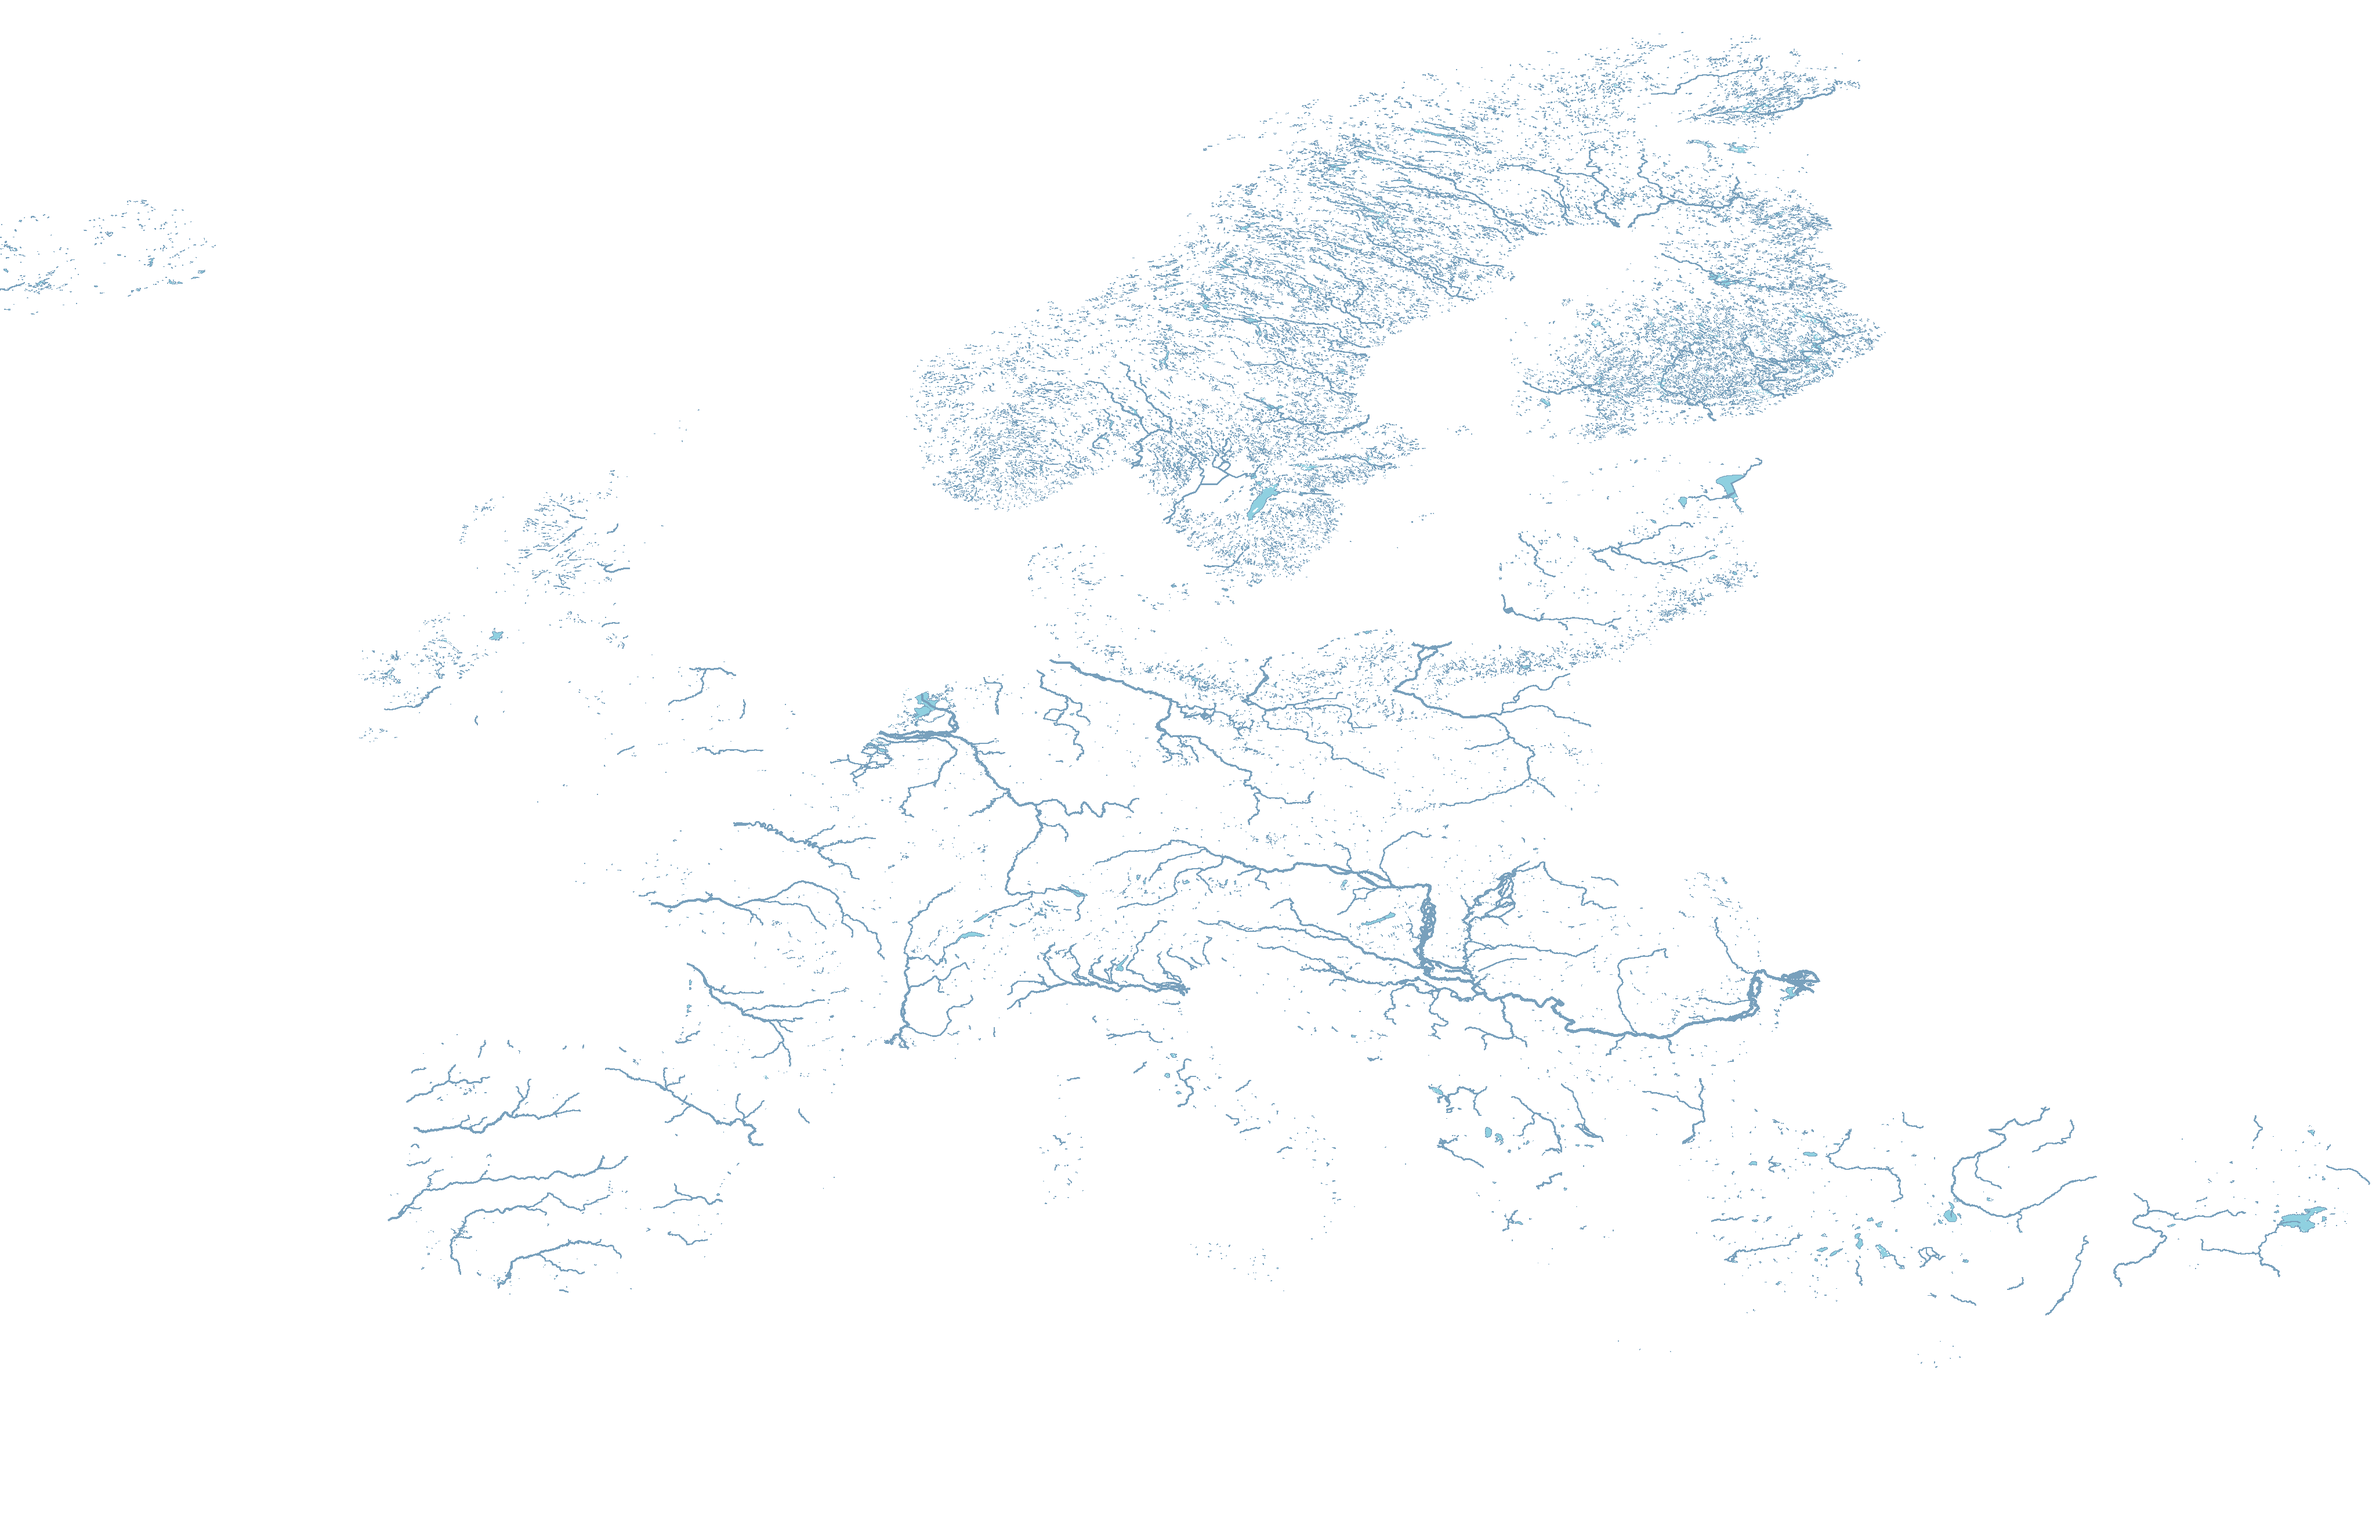
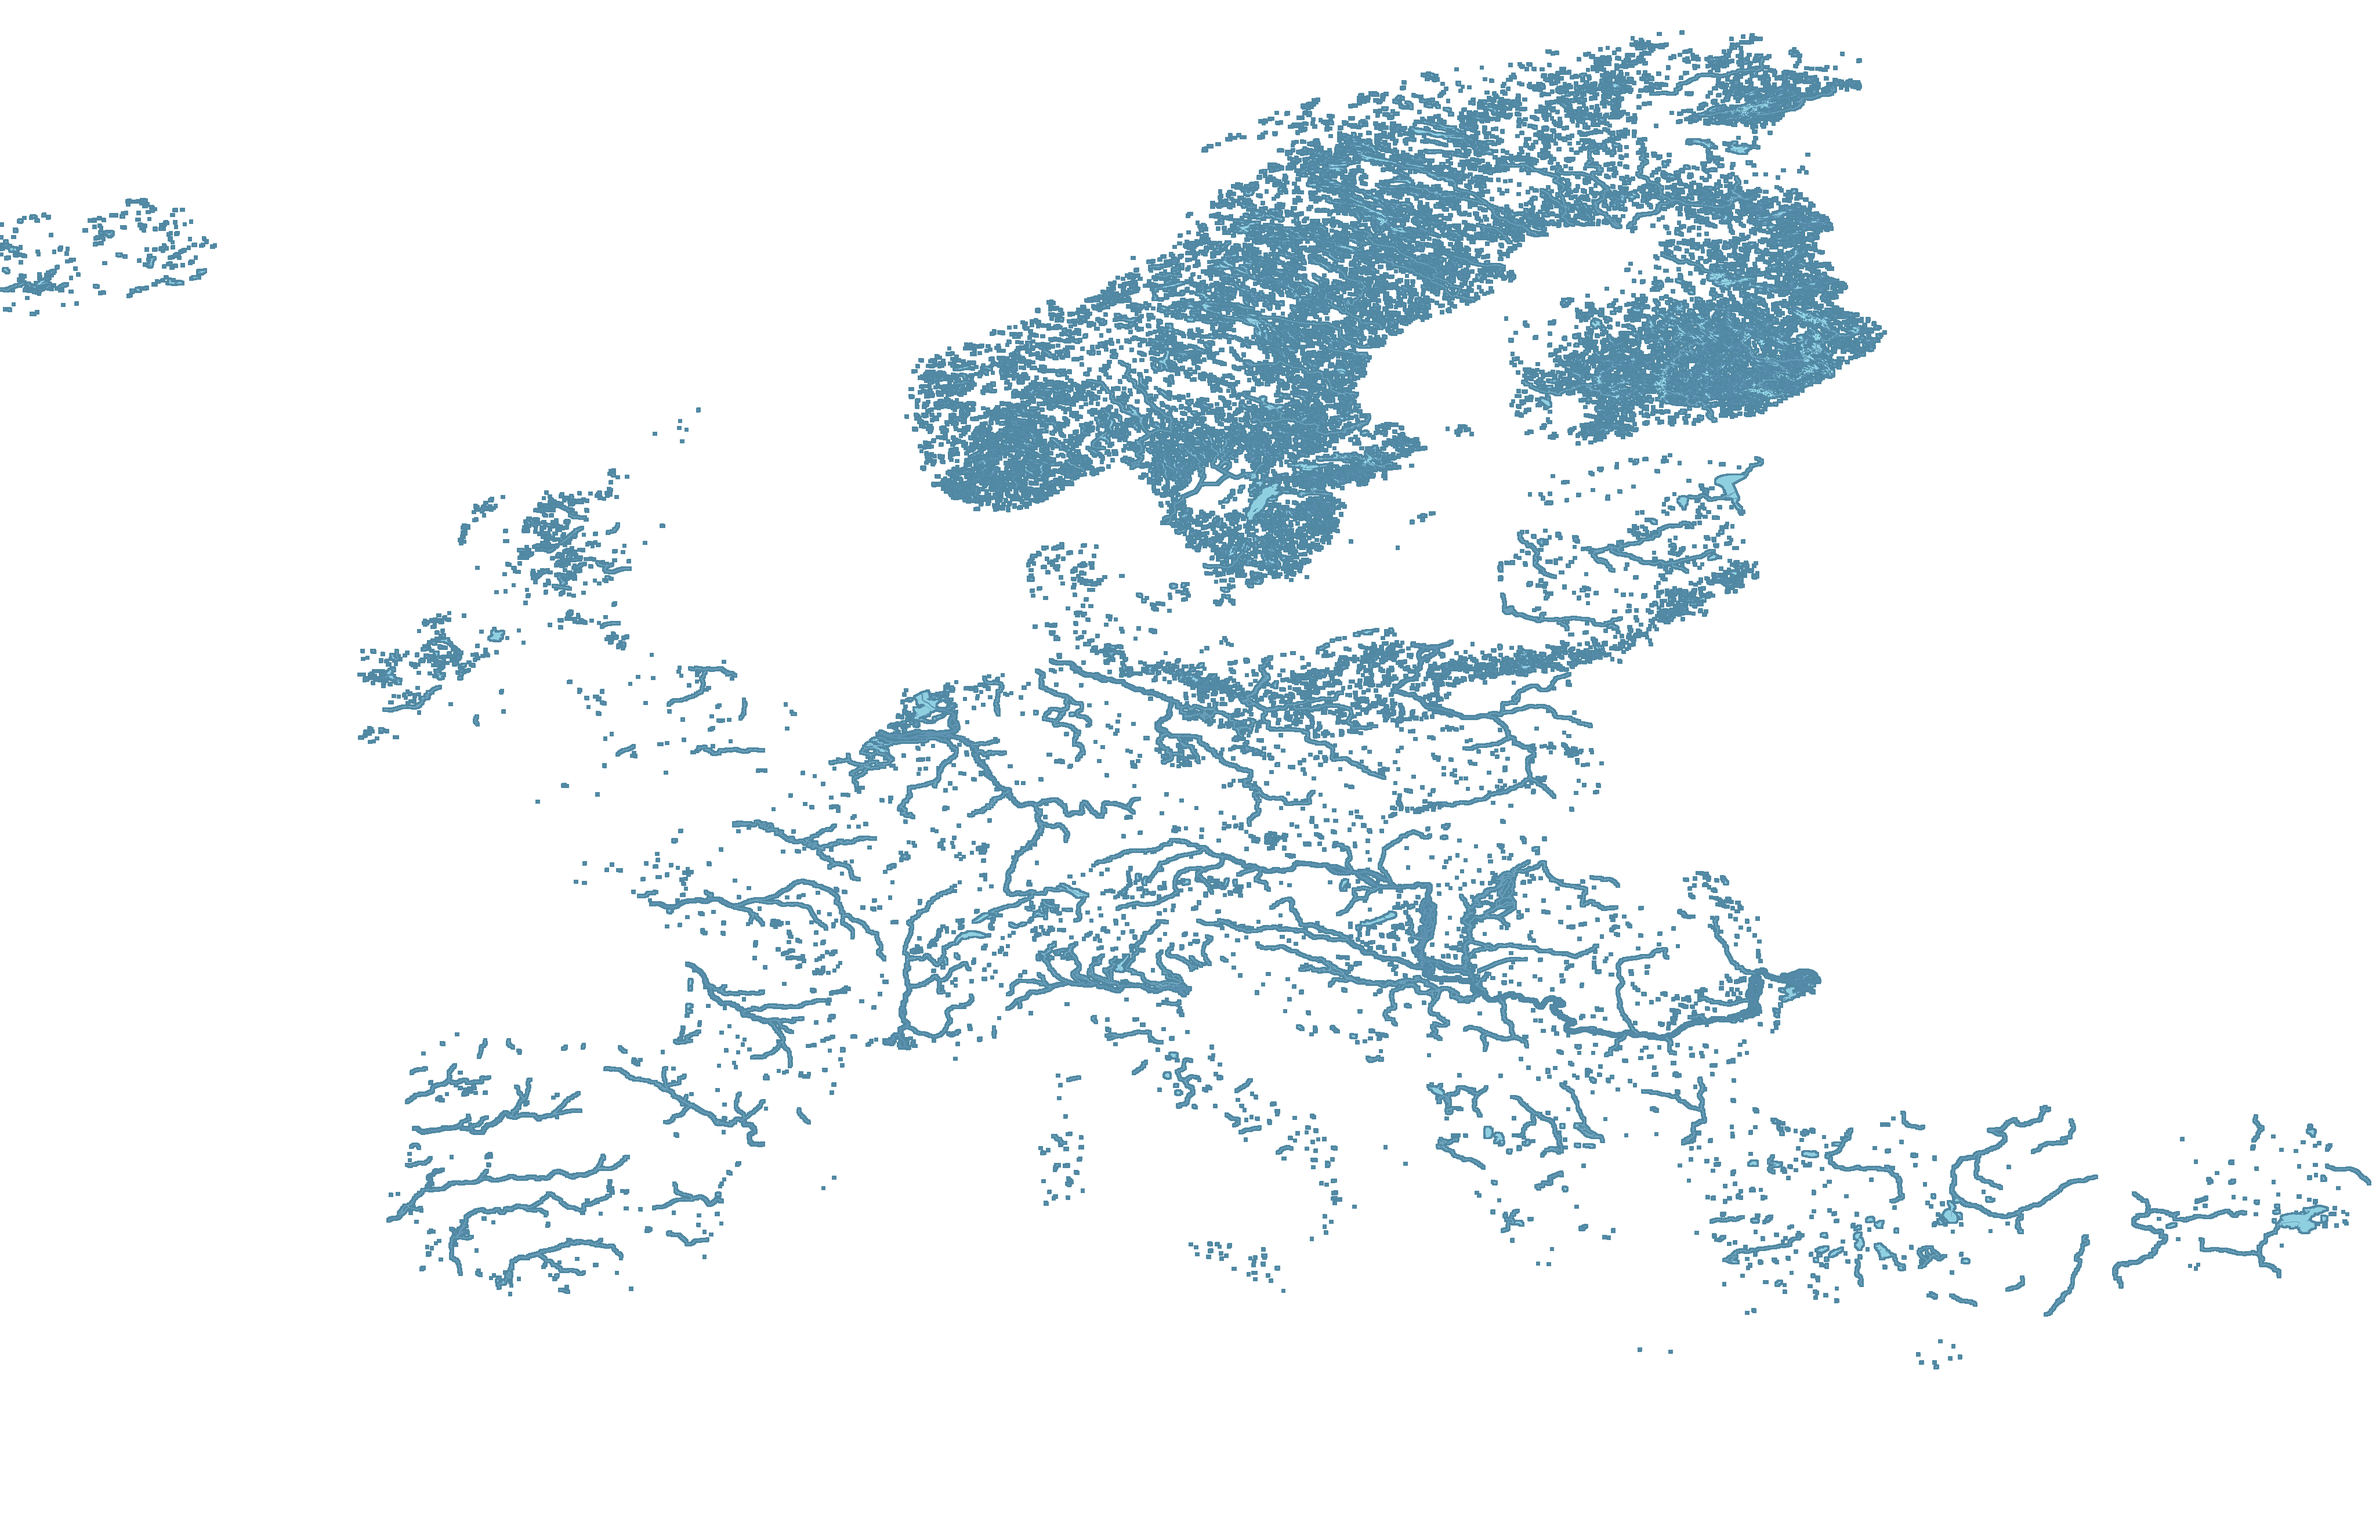
Thinner rivers, lake borders, smoother water shapes

diff --git a/src/hydrology.ts b/src/hydrology.ts
@@ -55,16 +55,17 @@ export function drawLakes(
 ) {
   if (!euHydroLakesImage) return;
   ctx.save();
-  const reliefBandHeight = Math.max(2, Math.round(scale * 1.2));
+  const rasterBandHeight = 1;
   const lonSpan = EUROPE_RASTER_BOUNDS.maxLon - EUROPE_RASTER_BOUNDS.minLon;
   const latSpan = EUROPE_RASTER_BOUNDS.maxLat - EUROPE_RASTER_BOUNDS.minLat;
   const [dstLeft] = project(EUROPE_RASTER_BOUNDS.minLon, EUROPE_RASTER_BOUNDS.maxLat);
   const [dstRight] = project(EUROPE_RASTER_BOUNDS.maxLon, EUROPE_RASTER_BOUNDS.maxLat);
   ctx.imageSmoothingEnabled = true;
+  ctx.imageSmoothingQuality = 'high';
 
-  for (let sy = 0; sy < euHydroLakesImage.height - reliefBandHeight; sy += reliefBandHeight) {
+  for (let sy = 0; sy < euHydroLakesImage.height - rasterBandHeight; sy += rasterBandHeight) {
     const latNorth = EUROPE_RASTER_BOUNDS.maxLat - (sy / euHydroLakesImage.height) * latSpan;
-    const latSouth = EUROPE_RASTER_BOUNDS.maxLat - ((sy + reliefBandHeight) / euHydroLakesImage.height) * latSpan;
+    const latSouth = EUROPE_RASTER_BOUNDS.maxLat - ((sy + rasterBandHeight) / euHydroLakesImage.height) * latSpan;
     const [, dstTop] = project(EUROPE_RASTER_BOUNDS.minLon, latNorth);
     const [, dstBottom] = project(EUROPE_RASTER_BOUNDS.minLon, latSouth);
     const destHeight = dstBottom - dstTop;
@@ -75,7 +76,7 @@ export function drawLakes(
       0,
       sy,
       euHydroLakesImage.width,
-      reliefBandHeight,
+      rasterBandHeight,
       dstLeft,
       dstTop,
       dstRight - dstLeft,
@@ -83,7 +84,21 @@ export function drawLakes(
     );
   }
 
-  ctx.font = `italic 600 ${9 * scale}px system-ui, sans-serif`;
+  ctx.restore();
+}
+
+/** Draws lake name labels as a per-frame overlay so they can react to the zoom state. */
+export function drawLakeLabelOverlays(
+  ctx: CanvasRenderingContext2D,
+  project: Projection['project'],
+  bounds: LonLatBounds,
+  camT: number,
+  scale = 1
+) {
+  const alpha = clamp(1 - camT * 2.5, 0, 1);
+  if (alpha <= 0.02) return;
+  ctx.save();
+  ctx.globalAlpha = alpha;
   ctx.textAlign = 'center';
   for (const lake of LAKE_LABELS) {
     if (!inBounds(lake.lon, lake.lat, bounds)) continue;

diff --git a/src/animation.ts b/src/animation.ts
@@ -17,7 +17,7 @@ import {
   DEFAULT_EUROPE_BOUNDS
 } from './geo';
 import { buildBasemapLayer } from './baseLayer';
-import { ensureHydrologyAssetsLoaded } from './hydrology';
+import { ensureHydrologyAssetsLoaded, drawLakeLabelOverlays } from './hydrology';
 import {
   drawPolyline,
   drawBikeMarker,
@@ -231,6 +231,7 @@ export async function generateVideo(data: TripData, opts: GenerateOptions): Prom
 
     drawMountainOverlays(ctx, project, camT, CANVAS_WIDTH, CANVAS_HEIGHT);
     drawCityOverlays(ctx, project, cityOverlays, camT, CANVAS_WIDTH, CANVAS_HEIGHT);
+    drawLakeLabelOverlays(ctx, project, staticBounds, camT);
 
     if (camT <= 0.02 && startPoint) {
       drawCityMarker(ctx, data.startCity, startPoint, project, '🚩', CANVAS_WIDTH);
